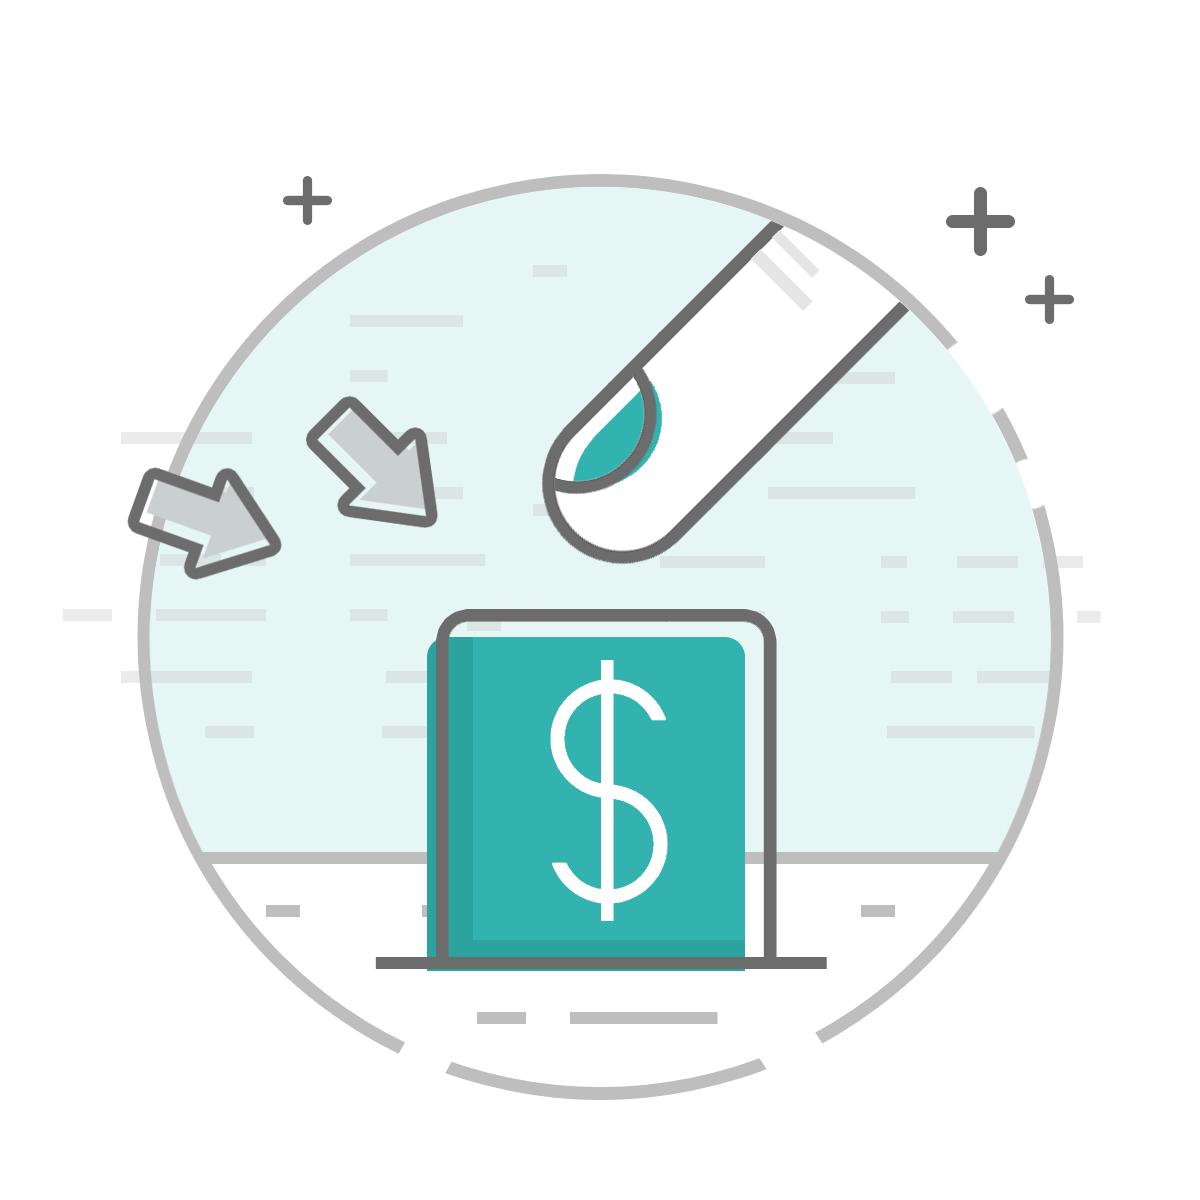
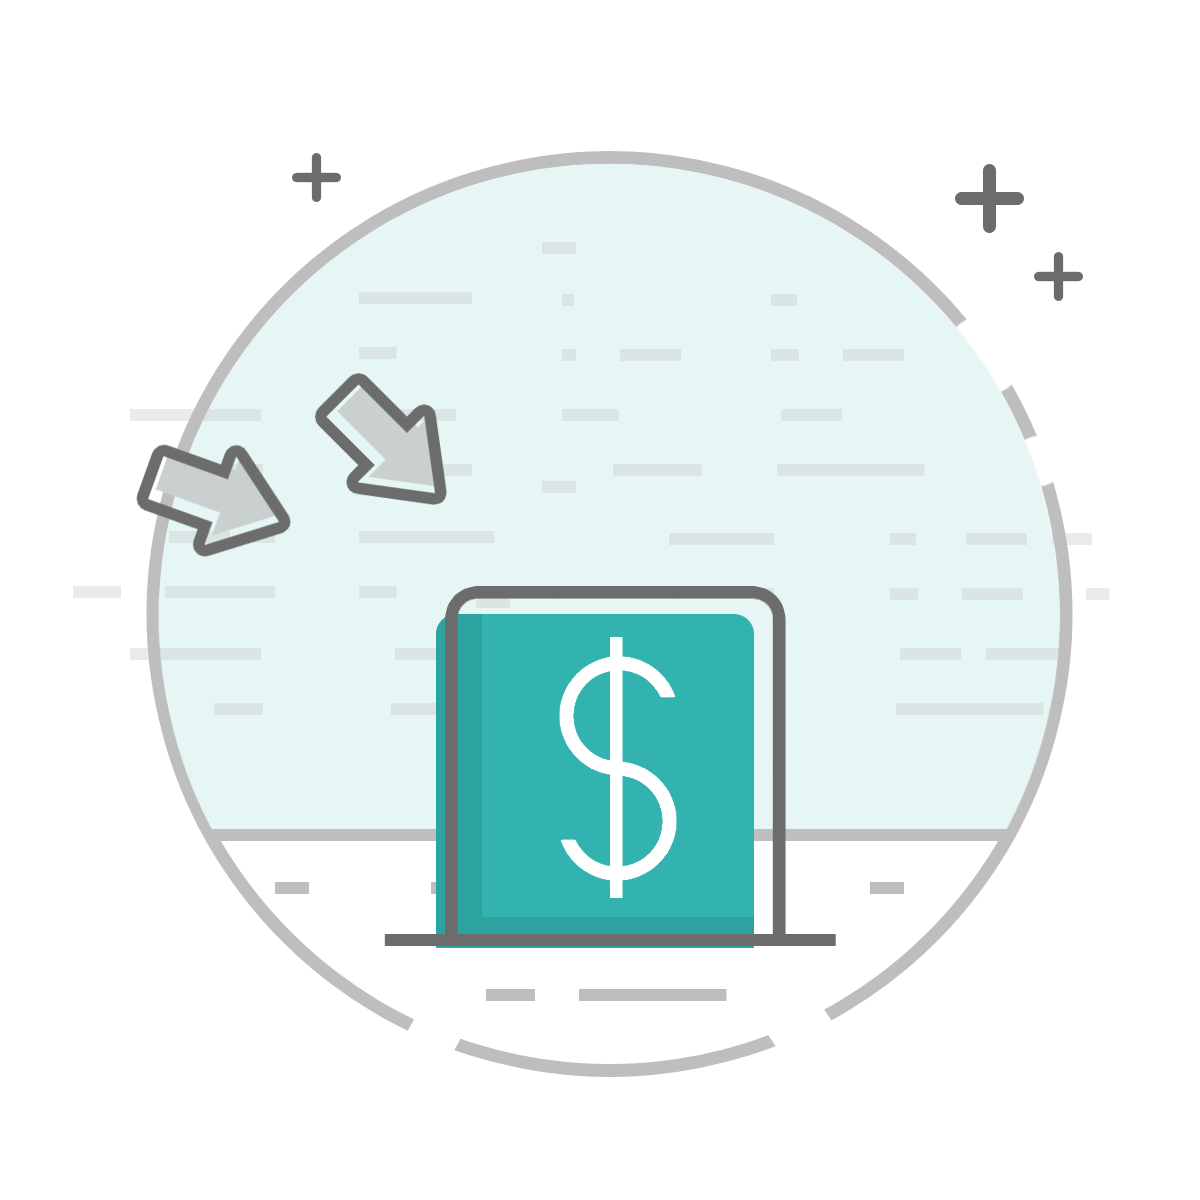
onboarding slides styling fixed

diff --git a/src/app/onboarding/onboarding.component.scss b/src/app/onboarding/onboarding.component.scss
@@ -1,5 +1,12 @@
 
 page-onboarding {
+
+  @import "../../theme/variables";
+
+  $font: Roboto-Regular, -apple-system, "Helvetica Neue", sans-serif;
+  .swiper-pagination-bullet-active{
+    background: color($colors, secondary)
+  }
   .toolbar-background {
     background: transparent;
     border-color: transparent;
@@ -11,12 +18,19 @@ page-onboarding {
 
   .slide-title {
     margin-top: 2.8rem;
+    font-family: $font;
   }
 
   .slide-image {
-    max-height: 50%;
-    max-width: 60%;
-    margin: 36px 0;
+    max-height: 60%;
+    max-width: 90%;
+    margin: 16px 0;
+  }
+  
+  .btn-get-started{
+    display: block;
+    width: 80%;
+    margin: 10px auto;
   }
 
   b {
@@ -25,6 +39,7 @@ page-onboarding {
 
   p {
     padding: 0 40px;
+    font-family: $font;
     font-size: 14px;
     line-height: 1.5;
     color: #60646B;

diff --git a/src/app/onboarding/onboarding.component.html b/src/app/onboarding/onboarding.component.html
@@ -7,7 +7,7 @@
 </ion-header>
 
 <ion-content no-bounce>
-  <ion-slides #slides (ionSlideWillChange)="onSlideChangeStart($event)" pager>
+  <ion-slides #slides pager>
 
     <ion-slide>
       <img src="assets/images/onboarding-icon-events.png" class="slide-image" />
@@ -32,6 +32,6 @@
   </ion-slides>
 </ion-content>
 
-<ion-footer>
-  <button ion-button block (click)="presentLoginModal()">Get Started</button>
+<ion-footer padding>
+    <button class="btn-get-started" ion-button round color="secondary" (click)="presentLoginModal()">Get Started</button>
 </ion-footer>

diff --git a/src/app/onboarding/email-capture.component.html b/src/app/onboarding/email-capture.component.html
@@ -1,10 +1,10 @@
 <ion-header no-border>
     <ion-navbar>
-        <button ion-button icon-only>
-      <ion-icon name="close"></ion-icon>
-    </button>
+        <button ion-button icon-only clear>
+      		<ion-icon name="close"></ion-icon>
+    	</button>
         <ion-buttons end>
-            <button ion-button (click)="login()">
+            <button ion-button (click)="login()" clear>
                 Next
              </button>
         </ion-buttons>

diff --git a/src/app/onboarding/email-capture.component.scss b/src/app/onboarding/email-capture.component.scss
@@ -1,0 +1,3 @@
+:host{
+    background: #000;
+}
